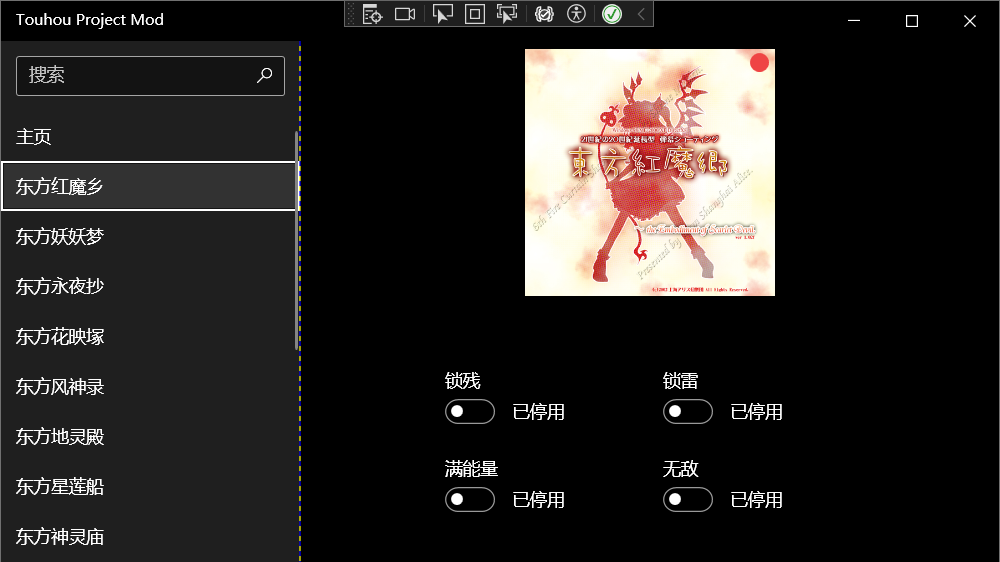
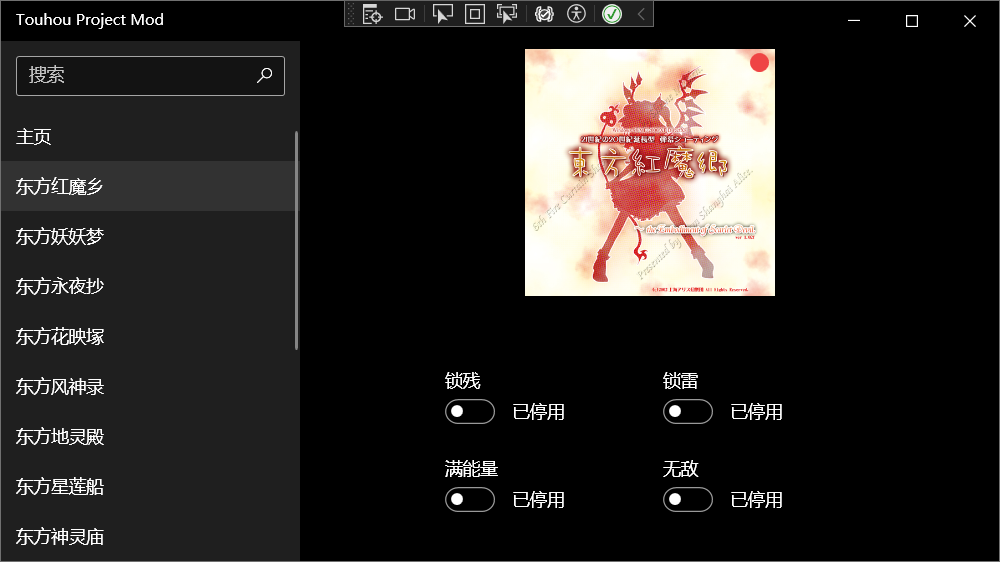
更新readme图片

Changed region(s): [[0.0, 0.9982, 1.0, 1.0], [0.0, 0.363, 0.31, 0.3932], [0.0, 0.2722, 0.31, 0.3025]]

diff --git a/Touhou Project Mod UI/MainWindow.xaml b/Touhou Project Mod UI/MainWindow.xaml
@@ -12,7 +12,7 @@
         Background="{DynamicResource SystemControlPageBackgroundAltHighBrush}"
         Loaded="Window_Main_Loaded"
         >
-    <Grid ShowGridLines="True">
+    <Grid>
         <Grid.ColumnDefinitions>
             <ColumnDefinition Width="0.3*" />
             <ColumnDefinition Width="0.7*" />
